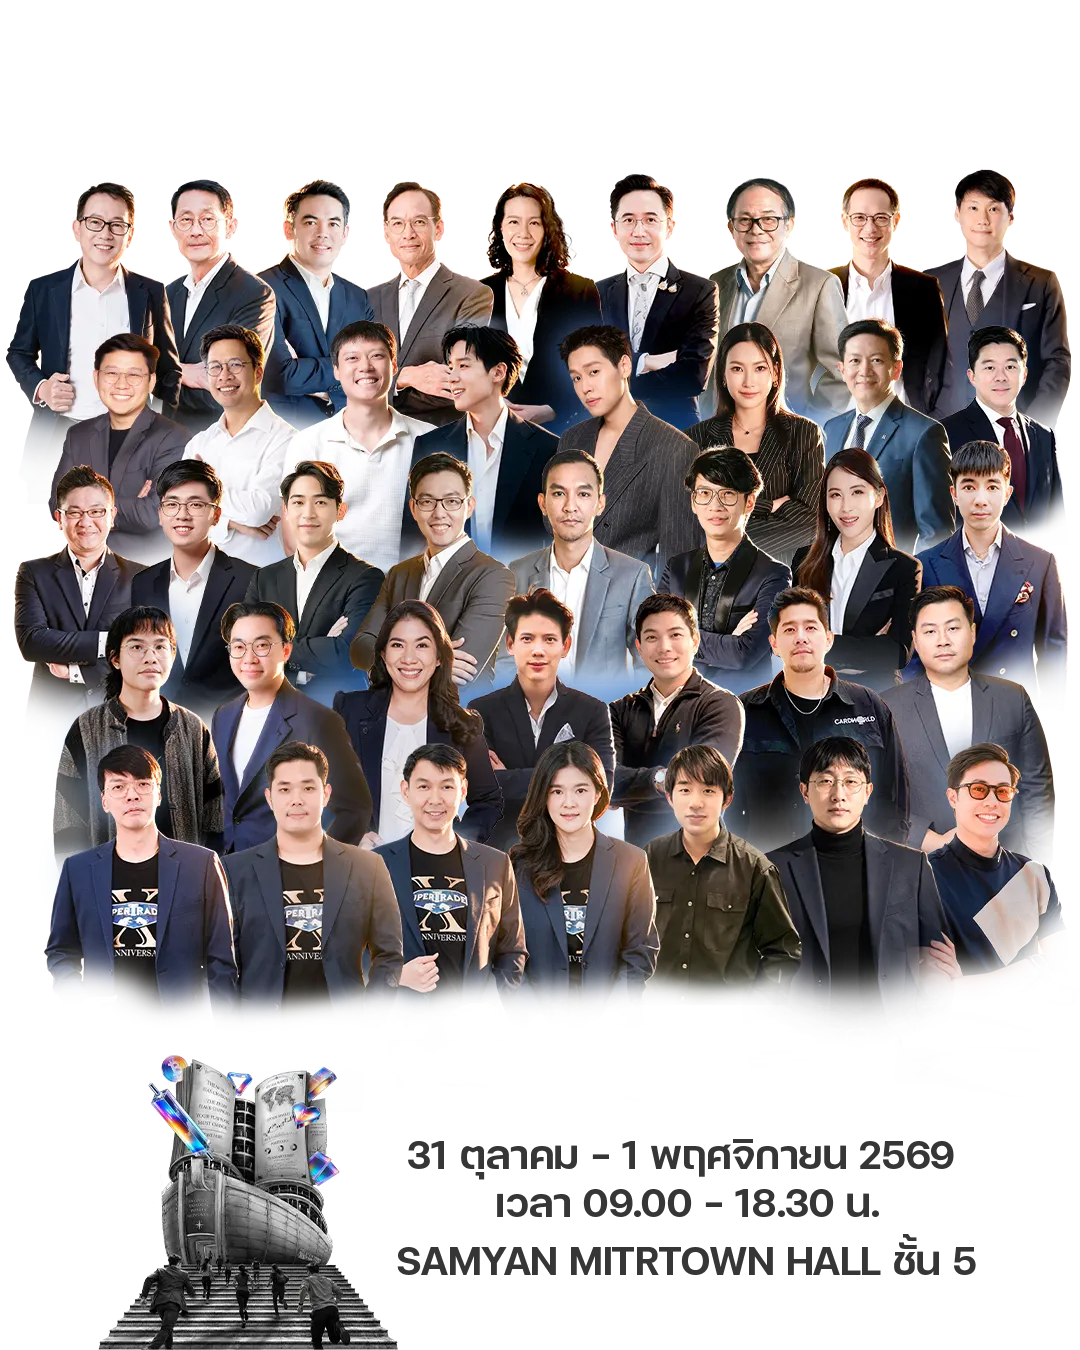
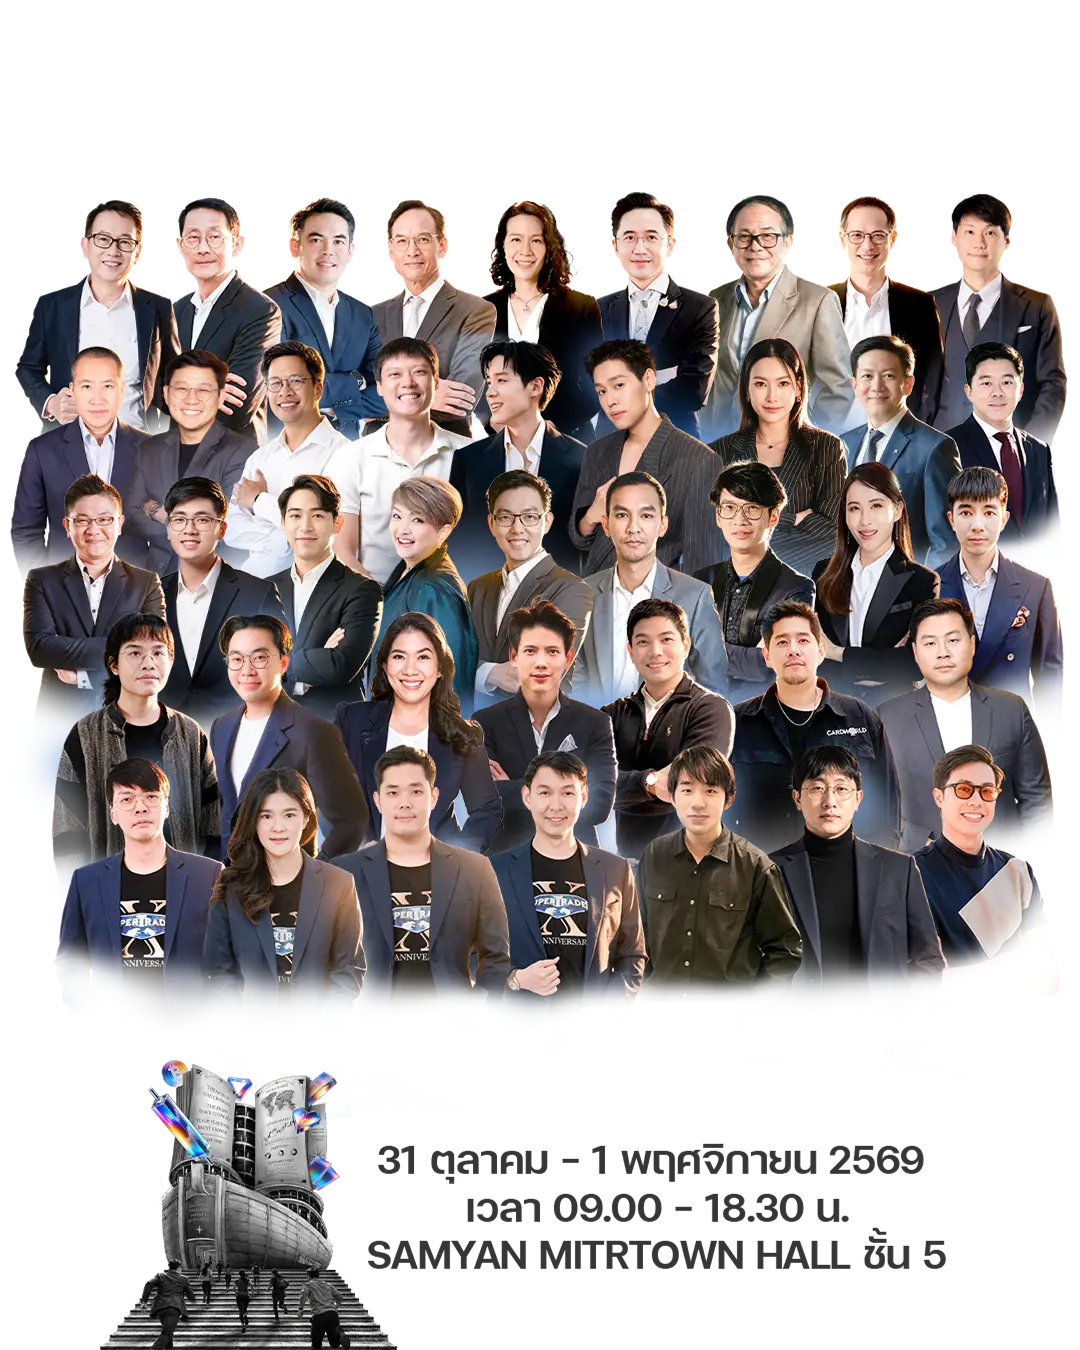
Update hero speaker and OG images; bump cache

diff --git a/index.html b/index.html
@@ -20,7 +20,7 @@
     <meta property="og:description" content="BetterTrade 2026: New World New Playbook งานสัมมนาลงทุน 2 วันเต็ม 31 ต.ค. - 1 พ.ย. 2569 ณ สามย่านมิตรทาวน์ ฮอลล์ ชั้น 5 บัตรเริ่ม 150 บาท รวมทุกสินทรัพย์ หุ้น ทอง คริปโต">
     <meta property="og:url" content="https://www.efin.finance/events/better-trade/better-trade2026">
     <meta property="og:image:type" content="image/webp">
-    <meta property="og:image" content="./images/og-image.webp?v=4">
+    <meta property="og:image" content="./images/og-image.webp?v=5">
     <meta property="og:image:width" content="1200">
     <meta property="og:image:height" content="630">
     <meta property="og:image:alt" content="BetterTrade 2026: New World New Playbook | 31 ต.ค. - 1 พ.ย. 2569 | Samyan Mitrtown Hall">
@@ -28,7 +28,7 @@
     <meta name="twitter:card" content="summary_large_image">
     <meta name="twitter:title" content="BetterTrade 2026: New World New Playbook | 31 ต.ค. - 1 พ.ย. 2569 | Samyan Mitrtown Hall">
     <meta name="twitter:description" content="BetterTrade 2026: New World New Playbook งานสัมมนาลงทุน 2 วันเต็ม 31 ต.ค. - 1 พ.ย. 2569 ณ สามย่านมิตรทาวน์ ฮอลล์ ชั้น 5 บัตรเริ่ม 150 บาท รวมทุกสินทรัพย์ หุ้น ทอง คริปโต">
-    <meta name="twitter:image" content="./images/og-image.webp?v=4">
+    <meta name="twitter:image" content="./images/og-image.webp?v=5">
 
     <script type="application/ld+json">
     {
@@ -36,7 +36,7 @@
         "@type": "Event",
         "name": "BetterTrade 2026: New World New Playbook | 31 ต.ค. - 1 พ.ย. 2569 | Samyan Mitrtown Hall",
         "description": "BetterTrade 2026: New World New Playbook งานสัมมนาลงทุน 2 วันเต็ม 31 ต.ค. - 1 พ.ย. 2569 ณ สามย่านมิตรทาวน์ ฮอลล์ ชั้น 5 บัตรเริ่ม 150 บาท รวมทุกสินทรัพย์ หุ้น ทอง คริปโต",
-        "image": ["https://www.efin.finance/events/better-trade/better-trade2026/images/og-image.webp?v=4"],
+        "image": ["https://www.efin.finance/events/better-trade/better-trade2026/images/og-image.webp?v=5"],
         "startDate": "2026-10-31T09:00:00+07:00",
         "endDate": "2026-11-01T17:30:00+07:00",
         "eventStatus": "https://schema.org/EventScheduled",
@@ -304,7 +304,7 @@
 
                 <div class="hero__visual col-12 col-lg-6 col-xl-7">
                     <figure class="hero__speakers">
-                        <img src="images/hero-speaker.webp?v=8" width="1080" height="1350"
+                        <img src="images/hero-speaker.webp?v=9" width="1080" height="1350"
                             alt="วิทยากรในงาน BetterTrade 2026 — 30+ Speakers, 20+ Sessions, 2 Days" fetchpriority="high">
                     </figure>
                 </div>

diff --git a/personalized-playbook.html b/personalized-playbook.html
@@ -20,7 +20,7 @@
     <meta property="og:description" content="PERSONALIZED PLAYBOOK คู่มือลงทุนที่ถอดจากตัวคุณเอง เริ่มด้วยแบบทดสอบ Investor DNA 7 ข้อ ฟรี ใน 2 นาที">
     <meta property="og:url" content="https://www.efin.finance/events/better-trade/better-trade2026/personalized-playbook">
     <meta property="og:image:type" content="image/webp">
-    <meta property="og:image" content="./images/og-image.webp?v=4">
+    <meta property="og:image" content="./images/og-image.webp?v=5">
     <meta property="og:image:width" content="1200">
     <meta property="og:image:height" content="630">
     <meta property="og:image:alt" content="PERSONALIZED PLAYBOOK | BetterTrade 2026: New World New Playbook">
@@ -28,7 +28,7 @@
     <meta name="twitter:card" content="summary_large_image">
     <meta name="twitter:title" content="ไม่มี Playbook เล่มไหนเหมาะกับคุณเท่าเล่มที่คุณสร้างเอง">
     <meta name="twitter:description" content="PERSONALIZED PLAYBOOK คู่มือลงทุนที่ถอดจากตัวคุณเอง เริ่มด้วยแบบทดสอบ Investor DNA 7 ข้อ ฟรี ใน 2 นาที">
-    <meta name="twitter:image" content="./images/og-image.webp?v=4">
+    <meta name="twitter:image" content="./images/og-image.webp?v=5">
 
     <!-- ฉากพื้นหลังเป็น CSS background จึงถูกค้นพบช้ากว่า img ปกติ ต้องบอกให้โหลดก่อน -->
     <link rel="preload" as="image" href="images/playbook-bg.webp" fetchpriority="high" media="(min-width: 576px)">
